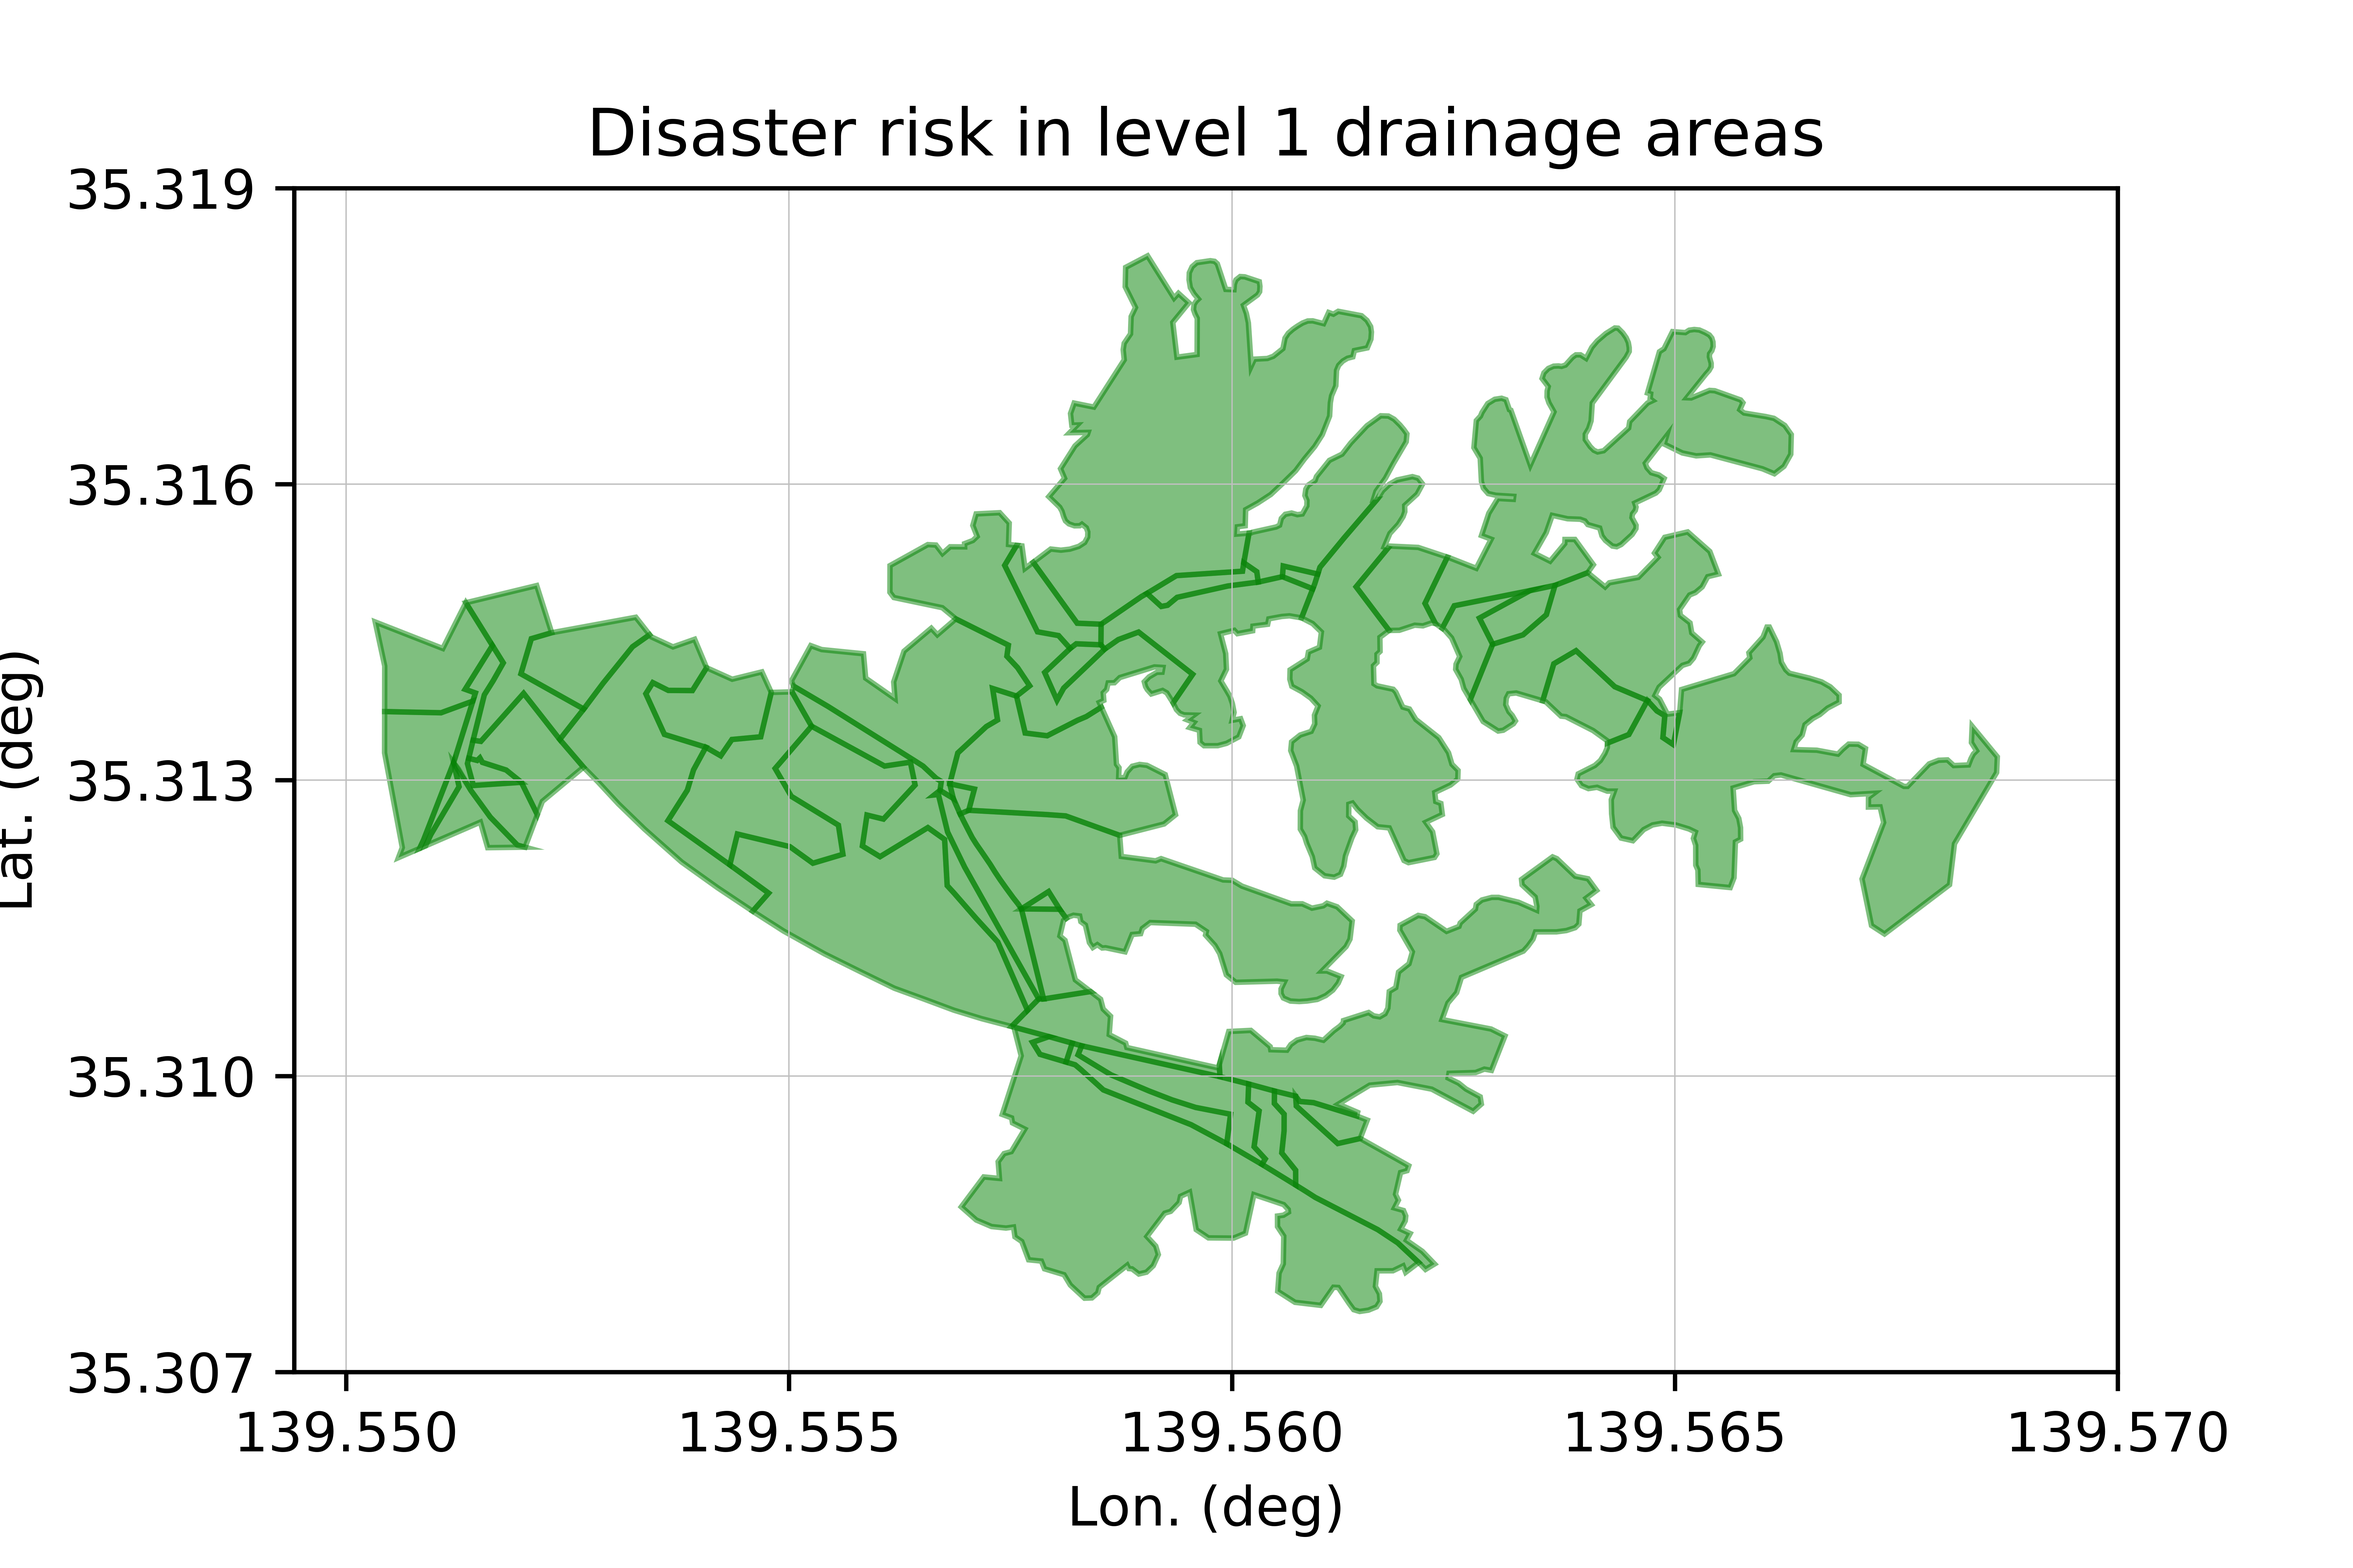
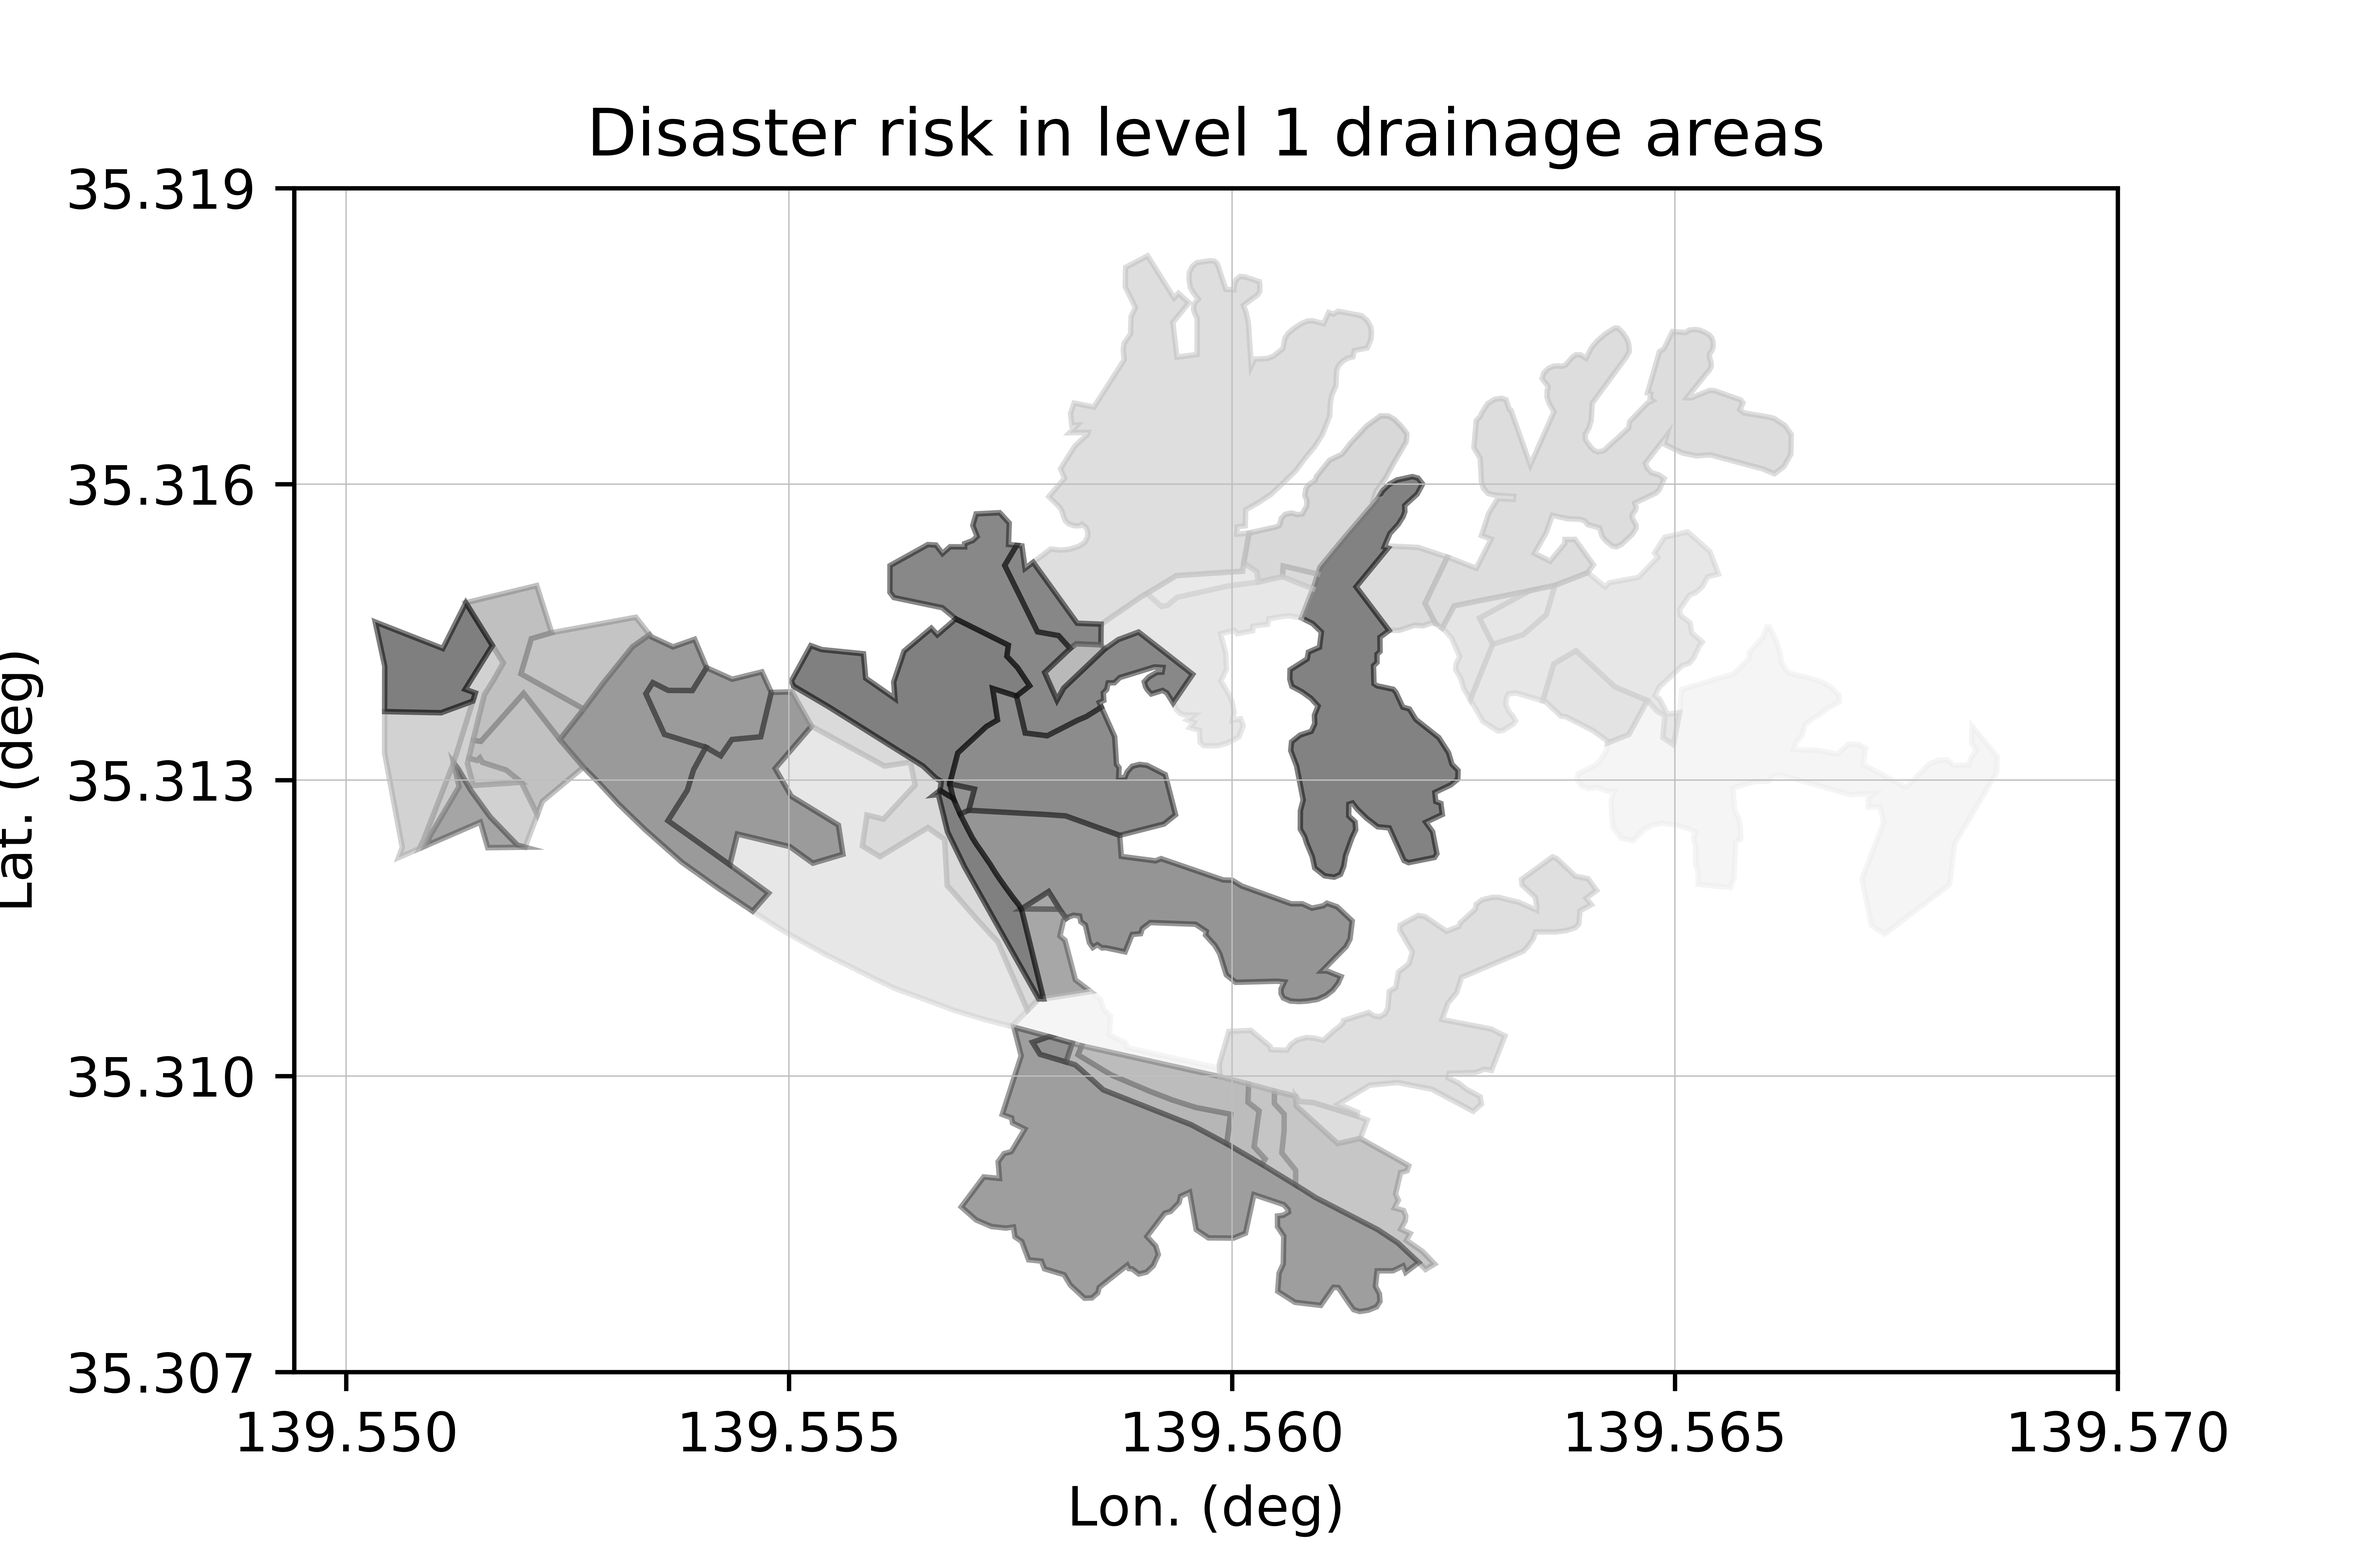
initial commit

Changed region(s): [[0.1562, 0.1562, 0.875, 0.8438]]

diff --git a/scr/shpWriter.py b/scr/shpWriter.py
@@ -65,7 +65,7 @@ for i in [1,2]:
         y = [j[1] for j in sh.shape.points[:]]
         c = [k[0] for k in rec]
         b = [str(1 - (df[df['ID'] == l]['Fill perstg'].tolist()[0])) for l in c]
-        ax.fill(x, y, linewidth=1, color = s[b], alpha = 0.5)
+        ax.fill(x, y, linewidth=1, color = b[s], alpha = 0.5)
     ax.set(xlabel='Lon. (deg)', ylabel='Lat. (deg)',
     title= 'Disaster risk in level '+ str(i) +' drainage areas')
     my_x_ticks = np.arange(139.550, 139.571, 0.005)
